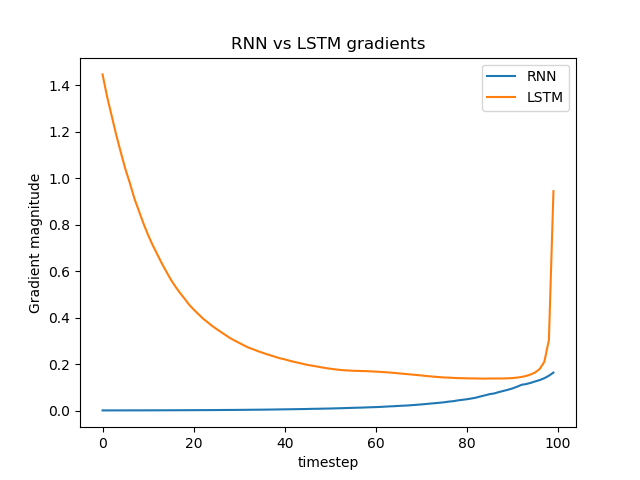
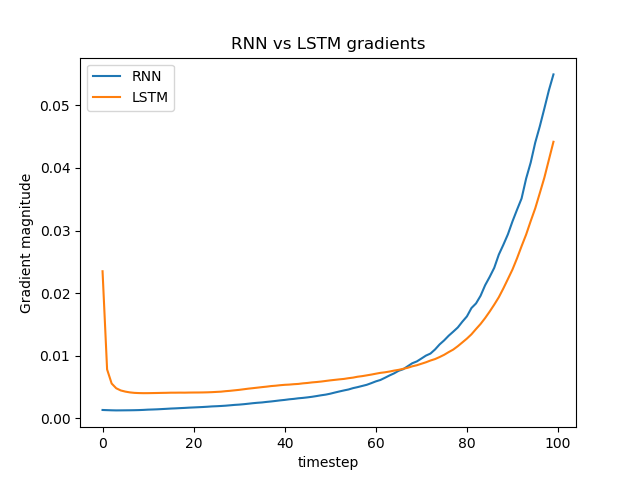
grid search

diff --git a/assignment_2/part1/plot.py b/assignment_2/part1/plot.py
@@ -1,5 +1,5 @@
 import matplotlib.pyplot as plt
-data = {'RNN': [{1: 1.0}, {2: 1.0}, {3: 1.0}, {4: 0.9994}, {5: 0.9996}, {6: 0.9992000000000001}, {7: 0.9996}, {8: 0.9978999999999999}, {9: 0.9907}, {10: 0.9743999999999999}, {11: 0.9763999999999999}, {12: 0.9108}, {13: 0.8962}, {14: 0.7764}, {15: 0.5861000000000001}, {16: 0.3799}, {17: 0.4528}, {18: 0.502}, {19: 0.5089}, {20: 0.31529999999999997}, {21: 0.3362}, {22: 0.179}, {23: 0.2628}, {24: 0.3187}], 'LSTM': [{1: 1.0}, {2: 1.0}, {3: 1.0}, {4: 0.9979000000000001}, {5: 0.9854}, {6: 0.9390000000000001}, {7: 0.907}, {8: 0.9037000000000001}, {9: 0.8717}, {10: 0.8718999999999999}, {11: 0.943}, {12: 0.9595}, {13: 0.8800000000000001}, {14: 0.7887}, {15: 0.7243999999999999}, {16: 0.6718}, {17: 0.5244}, {18: 0.5751}, {19: 0.5439999999999999}, {20: 0.4349}, {21: 0.3327}, {22: 0.42119999999999996}, {23: 0.41290000000000004}, {24: 0.38120000000000004}]}
+data = {'RNN': [{1: 1.0}, {2: 1.0}, {3: 1.0}, {4: 0.9971}, {5: 0.9981}, {6: 0.9993000000000001}, {7: 0.9966000000000002}, {8: 0.9965999999999999}, {9: 0.9958}, {10: 0.9846999999999999}, {11: 0.9663}, {12: 0.9617000000000001}, {13: 0.8007}, {14: 0.46799999999999997}, {15: 0.711}, {16: 0.40590000000000004}, {17: 0.4345}, {18: 0.2632}, {19: 0.256}, {20: 0.27799999999999997}, {21: 0.3025}, {22: 0.23279999999999998}, {23: 0.24480000000000005}, {24: 0.262}], 'LSTM': [{1: 0.49770000000000003}, {2: 0.5942000000000001}, {3: 0.44350000000000006}, {4: 0.48489999999999994}, {5: 0.42700000000000005}, {6: 0.4676}, {7: 0.4476}, {8: 0.44699999999999995}, {9: 0.46159999999999995}, {10: 0.4711}, {11: 0.8544}, {12: 0.8413999999999999}, {13: 0.8272999999999999}, {14: 0.7951000000000001}, {15: 0.7746999999999999}, {16: 0.7771}, {17: 0.7593}, {18: 0.7545999999999999}, {19: 0.7134}, {20: 0.6813}, {21: 0.6449}, {22: 0.6884}, {23: 0.6254}, {24: 0.5911000000000001}]}
 
 y_lstm = [(data['LSTM'][i][i+1]) for i in range(0,24,1)]
 y_rnn = [(data['RNN'][i][i+1]) for i in range(0,24,1)]

diff --git a/assignment_2/part1/train.py b/assignment_2/part1/train.py
@@ -114,18 +114,18 @@ def train(config):
         t2 = time.time()
         examples_per_second = config.batch_size/float(t2-t1)
         
-        # if step % 10 == 0:
+        if step % 10 == 0:
         #     writer.add_scalar('Loss/train', loss, step)
         #     writer.add_scalar('Loss/test/'+ str(config.input_length), loss, step)
         #     writer.add_scalar('Accuracy/train', accuracy, step)
         #     writer.add_scalar('Accuracy/test/' + str(config.input_length), accuracy, step)
 
-        #     print("[{}] Train Step {:04d}/{:04d}, Batch Size = {}, Examples/Sec = {:.2f}, "
-        #           "Accuracy = {:.2f}, Loss = {:.3f}".format(
-        #             datetime.now().strftime("%Y-%m-%d %H:%M"), step,
-        #             config.train_steps, config.batch_size, examples_per_second,
-        #             accuracy, loss
-        #     ))
+            print("[{}] Train Step {:04d}/{:04d}, Batch Size = {}, Examples/Sec = {:.2f}, "
+                  "Accuracy = {:.2f}, Loss = {:.3f}".format(
+                    datetime.now().strftime("%Y-%m-%d %H:%M"), step,
+                    config.train_steps, config.batch_size, examples_per_second,
+                    accuracy, loss
+            ))
 
         
         if step == config.train_steps or accuracy==1:

diff --git a/assignment_2/part1/grid_search.py b/assignment_2/part1/grid_search.py
@@ -30,8 +30,7 @@ num_seeds = 5
 results = {'RNN': [], 'LSTM': []}
 
 for input_length in range(1,25,1):
-    if input_length > 10:
-        config.learning_rate = 0.01
+    config.learning_rate = 0.001 *input_length
     config.input_length = input_length
     dataset = PalindromeDataset(config.input_length+1)
     test_set_batch = 2000
@@ -40,8 +39,6 @@ for input_length in range(1,25,1):
         batch_inputs = torch.nn.functional.one_hot(batch_inputs.to(torch.int64), 10).to(torch.double).to(device=device)
         batch_targets = batch_targets.to(device)
         for model_type in ['RNN', 'LSTM']:
-            if model_type == 'LSTM':
-                config.learning_rate = config.learning_rate/10
             config.model_type = model_type
             acc = []
             for i in range(num_seeds):
@@ -51,8 +48,6 @@ for input_length in range(1,25,1):
                 out = model.forward(batch_inputs.to(device))
                 acc.append(calc_accuracy(out, batch_targets))
             results[model_type].append({input_length: np.mean(acc)})
-            if model_type == 'LSTM':
-                config.learning_rate = config.learning_rate*10
             # print(model_type, input_length, np.mean(acc))
         break
 print(results)

diff --git a/assignment_2/part1/grads_over_time.py b/assignment_2/part1/grads_over_time.py
@@ -54,11 +54,13 @@ for model in [Vanilla, lstm]:
         gradlist = [] 
         for h in model.h_list:
             gradlist.append(torch.norm(h.grad))
+        gradlist = list(torch.tensor(gradlist)/sum(gradlist))
         gradients.append(gradlist)
         break
 
-plt.plot(gradients[0], label="RNN")
-plt.plot(gradients[1], label="LSTM")
+plt.plot(list(range(len(gradients[0]))), gradients[0], label="RNN")
+gradients[1].reverse()
+plt.plot(list(range(len(gradients[1]))), gradients[1], label="LSTM")
 plt.title('RNN vs LSTM gradients')
 plt.ylabel('Gradient magnitude')
 plt.xlabel('timestep')
